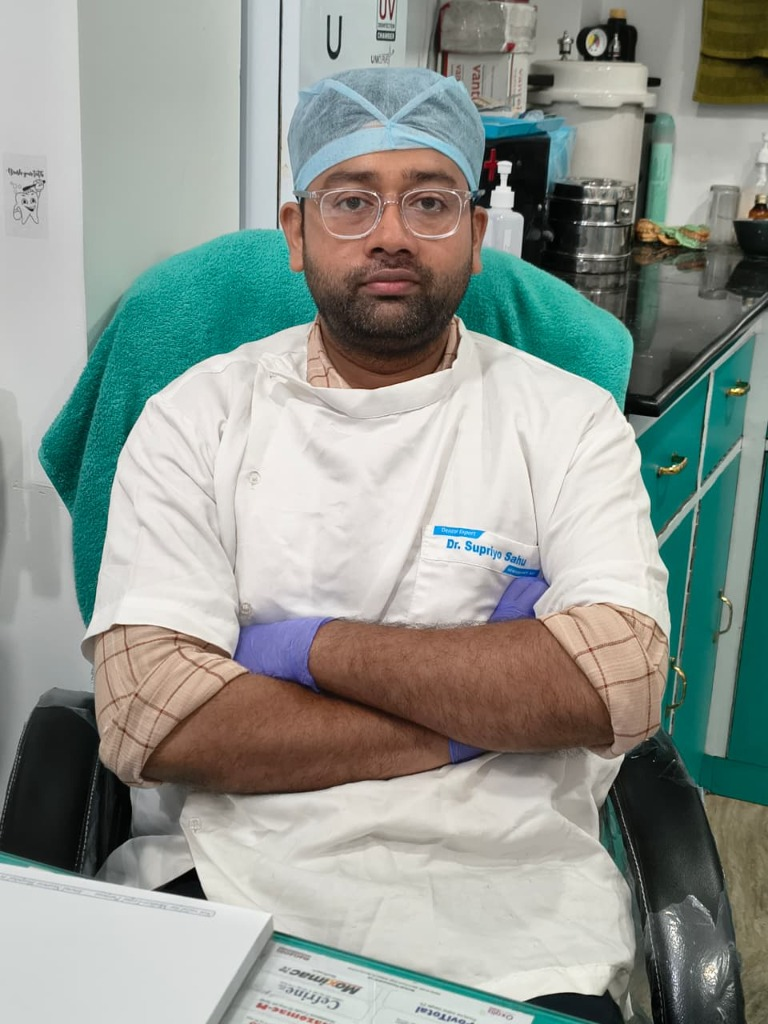
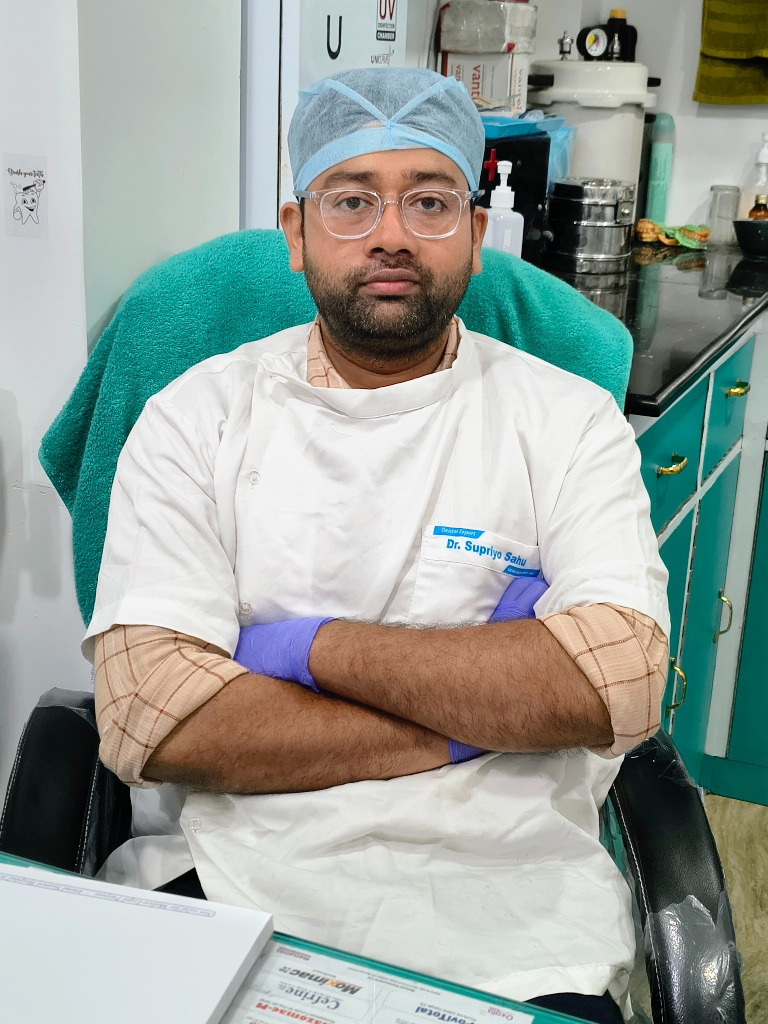
Update doctor photo with new clinical portrait and update clinic gallery

diff --git a/index.html b/index.html
@@ -16,15 +16,17 @@
   <meta property="og:type" content="website" />
   <meta property="og:url" content="https://dentalparadise.in/" />
   <meta property="og:title" content="Dental Paradise - A Complete Oral & Dental Care | Dr. Supriyo Sahu" />
-  <meta property="og:description" content="Painless dental treatment & oral surgery by Dr. Supriyo Sahu at Dental Paradise, Math Chandipur. Book your appointment online." />
-  <meta property="og:image" content="/images/dr-supriyo-sahu.jpg?v=2" />
+  <meta property="og:image" content="/images/dr-supriyo-sahu.jpg?v=3" />
+  <meta property="og:image:width" content="1200" />
+  <meta property="og:image:height" content="630" />
+  <meta property="og:image:alt" content="Dental Paradise - Dr. Supriyo Sahu Dental Clinic Math Chandipur" />
 
-  <!-- Twitter / X -->
+  <!-- Twitter Meta Tags -->
   <meta property="twitter:card" content="summary_large_image" />
   <meta property="twitter:url" content="https://dentalparadise.in/" />
-  <meta property="twitter:title" content="Dental Paradise - A Complete Oral & Dental Care" />
-  <meta property="twitter:description" content="Painless dental treatment & oral surgery by Dr. Supriyo Sahu in Math Chandipur." />
-  <meta property="twitter:image" content="/images/dr-supriyo-sahu.jpg?v=2" />
+  <meta property="twitter:title" content="Dental Paradise | Dr. Supriyo Sahu | Math Chandipur" />
+  <meta property="twitter:description" content="Official Dental Clinic in Math Chandipur. Book appointments, track live queue slot, and call directly." />
+  <meta property="twitter:image" content="/images/dr-supriyo-sahu.jpg?v=3" />
 
   <!-- PWA & Mobile Web App -->
   <link rel="manifest" href="/manifest.webmanifest" />

diff --git a/src/pages/DoctorProfilePage.js b/src/pages/DoctorProfilePage.js
@@ -12,7 +12,7 @@ export function renderDoctorProfilePage() {
         <!-- Left: Doctor Portrait and Direct Contact -->
         <div>
           <div style="position:relative; border-radius:var(--radius-xl); overflow:hidden; box-shadow:var(--shadow-lg); border:2px solid var(--color-outline-variant); margin-bottom:1.25rem;">
-            <img src="/images/dr-supriyo-sahu.jpg?v=2" alt="Dr. Supriyo Sahu - Dental Surgeon" style="width:100%; aspect-ratio:4/5; object-fit:cover; object-position:center 15%;" />
+            <img src="/images/dr-supriyo-sahu.jpg?v=3" alt="Dr. Supriyo Sahu - Dental Surgeon" style="width:100%; aspect-ratio:4/5; object-fit:cover; object-position:center 15%;" />
             <div style="position:absolute; bottom:12px; right:12px; background:var(--color-secondary); color:#FFFFFF; padding:4px 10px; border-radius:var(--radius-full); font-size:0.75rem; font-weight:700; display:flex; align-items:center; gap:4px; box-shadow:0 2px 8px rgba(0,0,0,0.25);">
               <span class="material-symbols-outlined text-[15px]" style="font-variation-settings: 'FILL' 1;">verified</span>
               <span>Verified Dental Surgeon</span>

diff --git a/src/pages/TreatmentDetailPage.js b/src/pages/TreatmentDetailPage.js
@@ -198,7 +198,7 @@ export async function renderTreatmentDetailPage(slug) {
         <div>
           <div style="position:sticky; top:5.5rem; background:#FFFFFF; border:1px solid var(--color-outline-variant); border-radius:var(--radius-xl); padding:1.5rem; box-shadow:var(--shadow-md);">
             <div style="display:flex; align-items:center; gap:0.75rem; margin-bottom:1rem; padding-bottom:1rem; border-bottom:1px solid var(--color-surface-container);">
-              <img src="/images/dr-supriyo-sahu.jpg?v=2" alt="Dr. Supriyo Sahu" style="width:52px; height:52px; border-radius:50%; object-fit:cover; object-position:center 15%;" />
+              <img src="/images/dr-supriyo-sahu.jpg?v=3" alt="Dr. Supriyo Sahu" style="width:52px; height:52px; border-radius:50%; object-fit:cover; object-position:center 15%;" />
               <div>
                 <strong style="font-size:0.95rem; color:var(--color-primary); display:block;">Dr. Supriyo Sahu</strong>
                 <span style="font-size:0.78rem; color:var(--color-secondary); font-weight:600;">B.D.S. (Hons), W.B.U.H.S.</span>

diff --git a/src/pages/AboutPage.js b/src/pages/AboutPage.js
@@ -13,7 +13,7 @@ export function renderAboutPage() {
       <div class="responsive-card-box responsive-two-col-reverse" style="margin-bottom:3rem;">
         <div>
           <div style="border-radius:var(--radius-lg); overflow:hidden; box-shadow:var(--shadow-lg);">
-            <img src="/images/dr-supriyo-sahu.jpg?v=2" alt="Dr. Supriyo Sahu" style="width:100%; aspect-ratio:4/5; object-fit:cover; object-position:center 15%;" />
+            <img src="/images/dr-supriyo-sahu.jpg?v=3" alt="Dr. Supriyo Sahu" style="width:100%; aspect-ratio:4/5; object-fit:cover; object-position:center 15%;" />
           </div>
           <div style="text-align:center; margin-top:1rem;">
             <strong style="font-size:1.1rem; color:var(--color-secondary);">Dr. Supriyo Sahu</strong>

diff --git a/src/pages/HomePage.js b/src/pages/HomePage.js
@@ -179,7 +179,7 @@ export async function renderHomePage() {
         <div class="doctor-flex-box">
           <!-- Doctor Portrait / Avatar -->
           <div class="doctor-avatar-wrapper">
-            <img class="doctor-avatar-img" alt="Dr. Supriyo Sahu" src="/images/dr-supriyo-sahu.jpg?v=2" />
+            <img class="doctor-avatar-img" alt="Dr. Supriyo Sahu" src="/images/dr-supriyo-sahu.jpg?v=3" />
             <div class="verified-doctor-badge" title="Verified BDS Surgeon">
               <span class="material-symbols-outlined text-[16px] font-bold" style="font-variation-settings: 'FILL' 1;">verified</span>
             </div>

diff --git a/src/pages/DoctorsDirectoryPage.js b/src/pages/DoctorsDirectoryPage.js
@@ -11,7 +11,7 @@ export function renderDoctorsDirectoryPage() {
 
       <div class="responsive-card-box responsive-doctor-card" style="max-width:850px; margin:0 auto;">
         <div style="border-radius:var(--radius-lg); overflow:hidden; box-shadow:var(--shadow-lg);">
-          <img src="/images/dr-supriyo-sahu.jpg?v=2" alt="Dr. Supriyo Sahu" style="width:100%; aspect-ratio:4/5; object-fit:cover; object-position:center 15%;" />
+          <img src="/images/dr-supriyo-sahu.jpg?v=3" alt="Dr. Supriyo Sahu" style="width:100%; aspect-ratio:4/5; object-fit:cover; object-position:center 15%;" />
         </div>
 
         <div>

diff --git a/src/pages/GalleryPage.js b/src/pages/GalleryPage.js
@@ -121,7 +121,7 @@ export function renderGalleryPage() {
       title: 'Dr. Supriyo Sahu',
       subtitle: 'B.D.S. (Hons), W.B.U.H.S. (Kolkata)',
       desc: 'Chief Dental Surgeon, Former House Surgeon at Dr. R. Ahmed Dental College & Hospital, Kolkata. Dedicated to gentle, painless oral health.',
-      image: '/images/dr-supriyo-sahu.jpg?v=2',
+      image: '/images/dr-supriyo-sahu.jpg?v=3',
       alt: 'Dr. Supriyo Sahu - Lead Dental Surgeon',
       objectFit: 'cover',
       objectPosition: 'center 15%'

diff --git a/public/sw.js b/public/sw.js
@@ -1,5 +1,5 @@
 // Service Worker for Dental Paradise PWA & Web Push Notifications
-const CACHE_NAME = 'dental-paradise-v6';
+const CACHE_NAME = 'dental-paradise-v7';
 const ASSETS_TO_CACHE = [
   '/',
   '/favicon.ico',
@@ -8,7 +8,7 @@ const ASSETS_TO_CACHE = [
   '/icons/icon-512.png',
   '/apple-touch-icon.png',
   '/manifest.webmanifest',
-  '/images/dr-supriyo-sahu.jpg?v=2',
+  '/images/dr-supriyo-sahu.jpg?v=3',
   '/images/dental-paradise-card.jpg'
 ];
 
